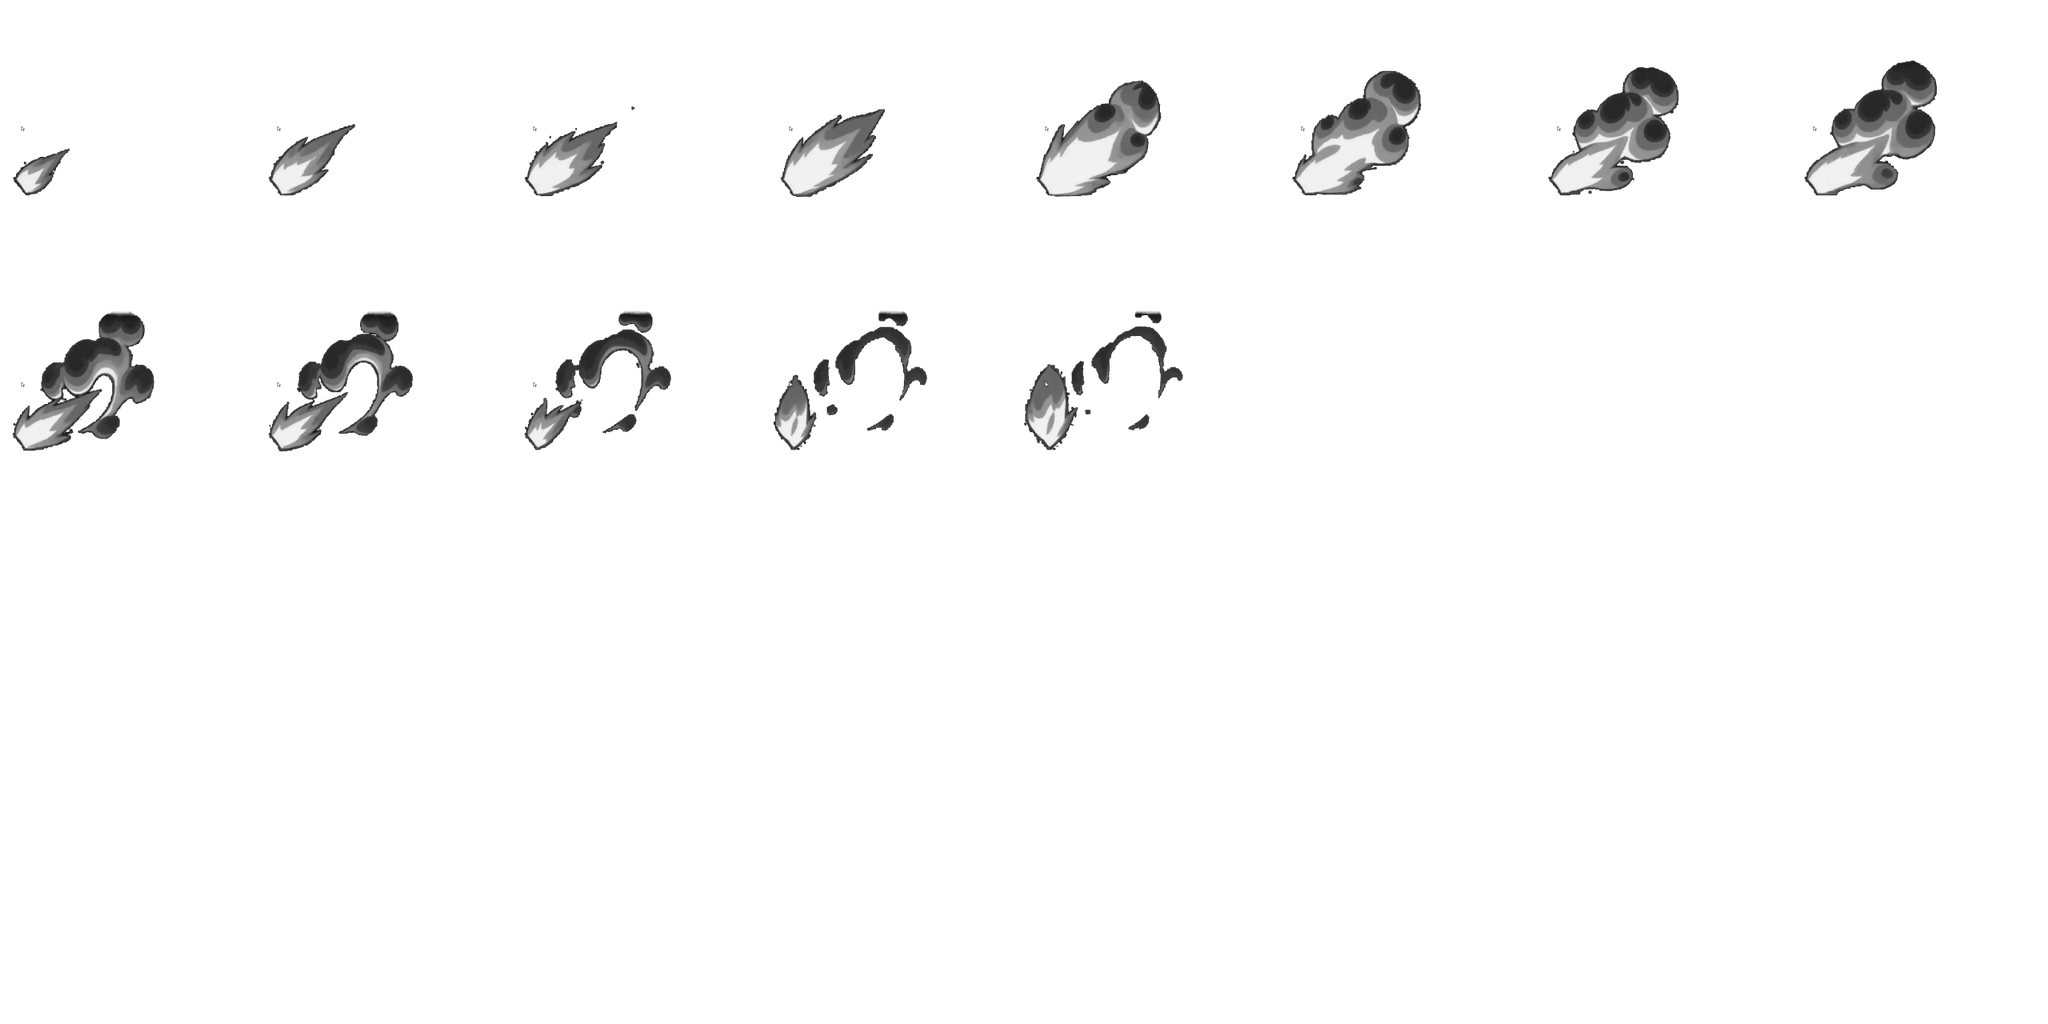
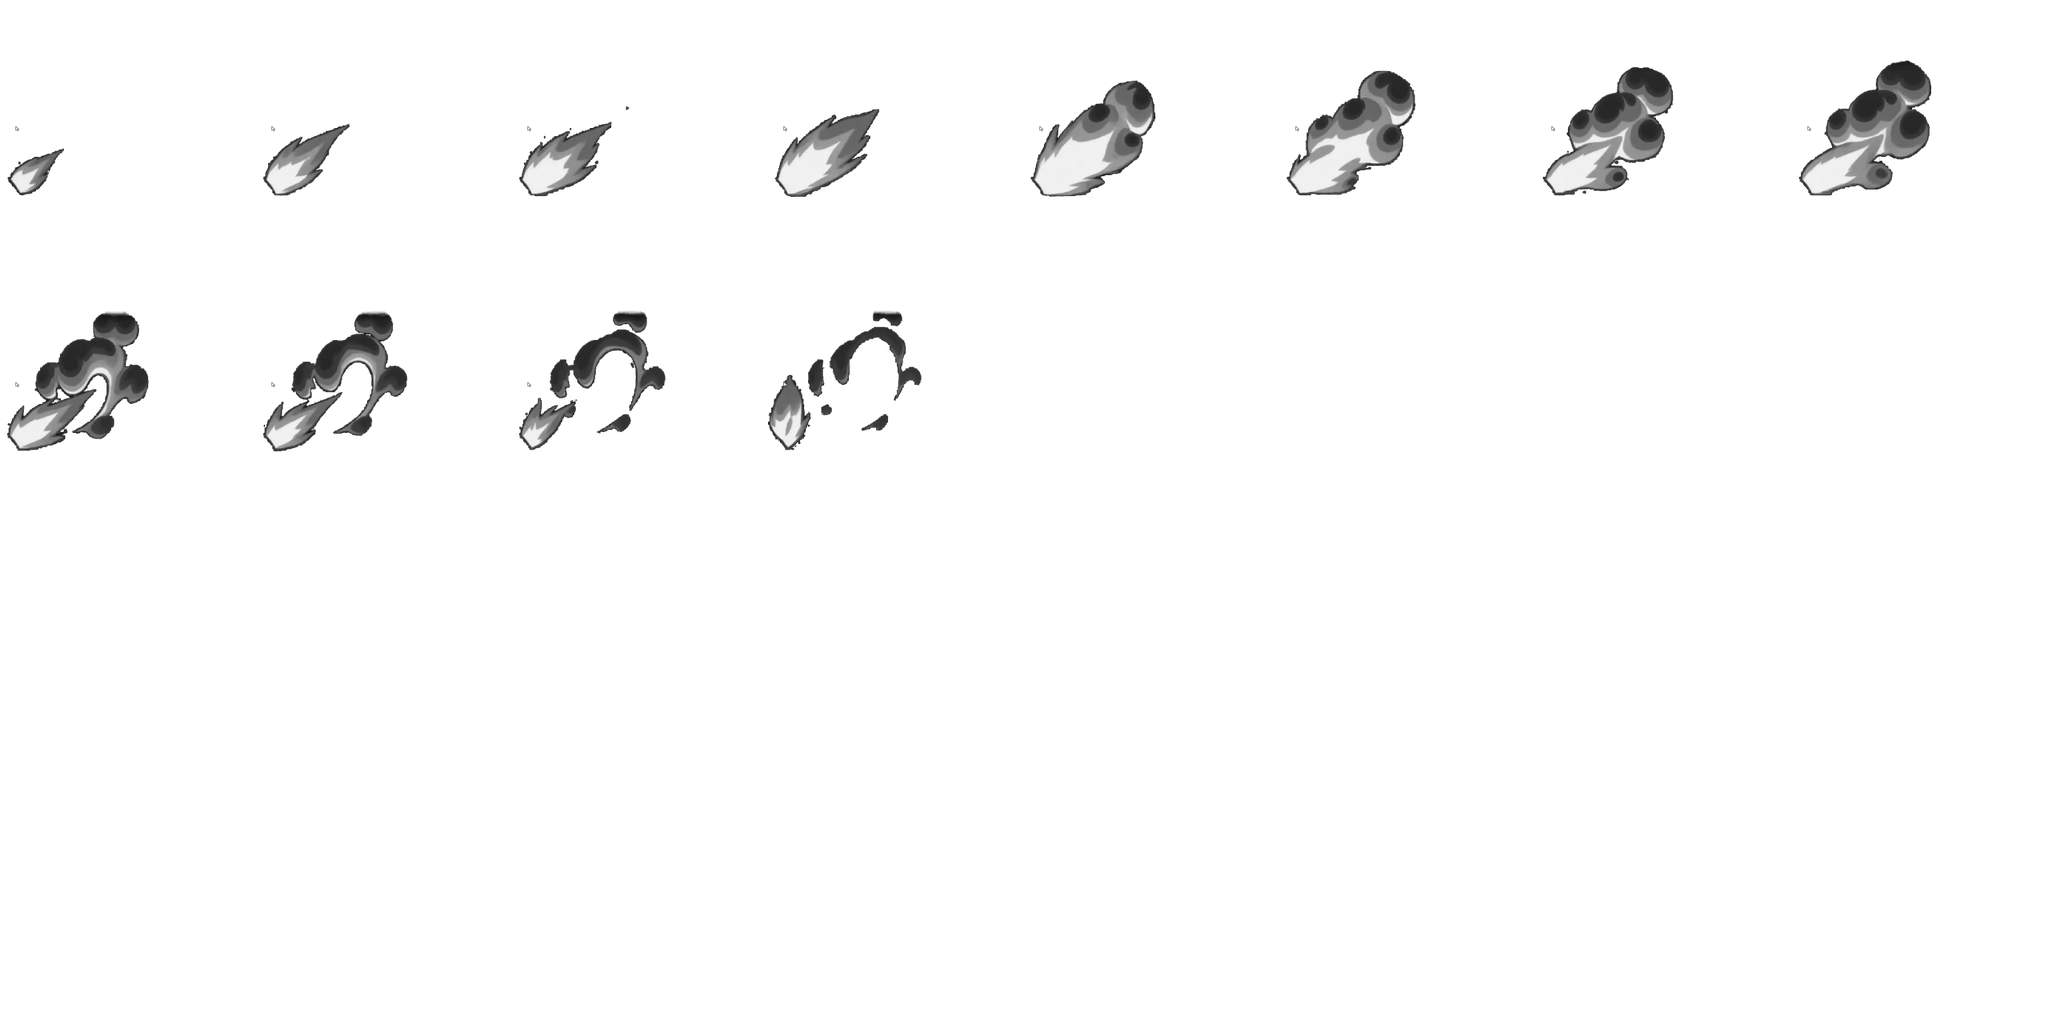
FlipbookFx: GunBlast is 12 frames (firebooks keeps 0-11), Fill and Bands re-read from the printout

diff --git a/trench-warfare-3d/Assets/_Project/Presentation/Camera/FlipbookFx.cs b/trench-warfare-3d/Assets/_Project/Presentation/Camera/FlipbookFx.cs
@@ -153,7 +153,7 @@ namespace TW.Presentation.Tactical
             new Sheet { Name = "LeanBurst", Cols = 8, Rows = 4, Frames = 28, Snap = true, Fps = 12f, Mood = 0.45f, Tint = new Color(0.40f, 0.33f, 0.26f), Low = 0.11f, High = 0.73f, Ink = new Vector2(0.26f, 0.73f), Fill = 0.90f },
             new Sheet { Name = "FireCookOff", Cols = 8, Rows = 4, Frames = 29, Snap = true, Fps = 12f, Fire = true, Tint = new Color(1.35f, 0.62f, 0.17f), Low = 0.08f, High = 0.90f, Bands = new Vector4(0.07f, 0.28f, 0.75f, 0.75f), Ink = new Vector2(0.07f, 0.91f), Fill = 0.94f },
             new Sheet { Name = "FireTall", Cols = 8, Rows = 4, Frames = 24, Snap = true, Fps = 12f, Cycle = true, Fire = true, Tint = new Color(1.35f, 0.62f, 0.17f), Low = 0.08f, High = 0.85f, Bands = new Vector4(0.11f, 0.28f, 0.65f, 0.75f), Ink = new Vector2(0.05f, 0.99f), Fill = 0.62f },
-            new Sheet { Name = "FireGunBlast", Cols = 8, Rows = 4, Frames = 13, Snap = true, Fps = 12f, Fire = true, Tint = new Color(1.35f, 0.62f, 0.17f), Low = 0.11f, High = 0.95f, Bands = new Vector4(0.12f, 0.37f, 0.57f, 0.75f), Ink = new Vector2(0.23f, 0.78f), Fill = 0.62f },
+            new Sheet { Name = "FireGunBlast", Cols = 8, Rows = 4, Frames = 12, Snap = true, Fps = 12f, Fire = true, Tint = new Color(1.35f, 0.62f, 0.17f), Low = 0.11f, High = 0.95f, Bands = new Vector4(0.11f, 0.38f, 0.57f, 0.75f), Ink = new Vector2(0.23f, 0.78f), Fill = 0.60f },
             new Sheet { Name = "Smoulder", Cols = 8, Rows = 4, Frames = 32, Snap = true, Fps = 12f, Cycle = true, Erode = true, Deep = true, Mood = 0.45f, Tint = new Color(0.50f, 0.47f, 0.43f), Low = 0.07f, High = 0.85f, Ink = new Vector2(0.05f, 0.92f), Fill = 0.45f },
             new Sheet { Name = "GroundRing", Cols = 8, Rows = 4, Frames = 32, Snap = true, Fps = 12f, Mood = 0.45f, Tint = new Color(0.86f, 0.78f, 0.64f), Low = 0.20f, High = 0.81f, Ink = new Vector2(0.12f, 0.88f), Fill = 0.94f },
             new Sheet { Name = "DustPuff", Cols = 8, Rows = 4, Frames = 28, Snap = true, Fps = 12f, Mood = 0.45f, Tint = new Color(0.86f, 0.78f, 0.64f), Low = 0.16f, High = 0.91f, Ink = new Vector2(0.18f, 0.82f), Fill = 0.90f },
